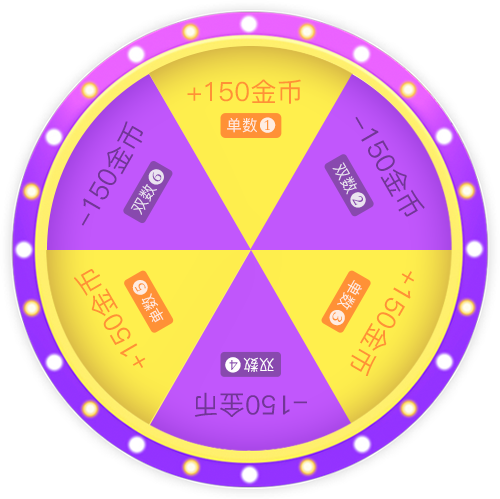
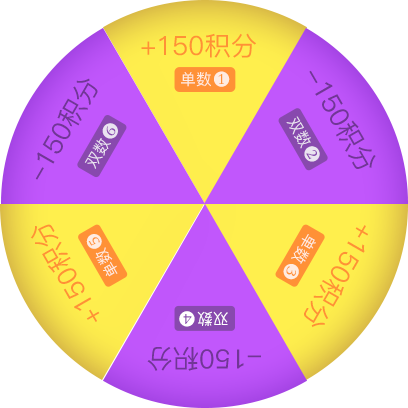
update 转盘活动页

diff --git a/public/client/css/intro.css b/public/client/css/intro.css
@@ -144,6 +144,18 @@
 
 .ring {
     position: absolute;
-    height: 5.8rem;
-    margin-top: -5.6rem;
+    height: 8rem;
+    width: 8rem !important;
+    margin-top: -6rem;
+    margin-left: -1.1rem;
+}
+
+.ring img {
+    width: 6.7rem !important;
+    height: 6.7rem;
+}
+
+.playBox {
+    padding-top: 0.25rem;
+    padding-bottom: 0.45rem;
 }

diff --git a/resources/views/staradmin/client/intro.blade.php b/resources/views/staradmin/client/intro.blade.php
@@ -46,7 +46,7 @@
         </div>
         <div class="panel">
             <div class="panel-title">转盘玩法说明</div>
-            进入转盘默认有1200金币(不可提现)，使用倍增式猜单数或者双数（游戏里有介绍）。<br /><span class="highlight">在转盘里赚到的金币可兑换红包(可提现)。</span><br />每次幸运转盘最多可赚150金币，能兑换15元红包。如果你有10次机会，就可以赚150元。            
+            进入转盘默认有1200积分(不可提现)，使用倍增式猜单数或者双数（游戏里有介绍）。<br /><span class="highlight">在转盘里赚到的积分可兑换红包(可提现)。</span><br />每次幸运转盘最多能兑换15元红包。如果你有10次机会，就可以赚150元。            
         </div>
         <div class="panel bottom-space">
             <div class="panel-title">超多红包拿不完</div>

diff --git a/resources/views/staradmin/layouts/footer.blade.php b/resources/views/staradmin/layouts/footer.blade.php
@@ -15,7 +15,7 @@
 
 
 			<dt class="dbox0">
-				@if(Request::is('vip') || Request::is('arcade') || Request::is('arcade_node'))
+				@if(Request::is('vip') || Request::is('arcade') || Request::is('arcade_node') || Request::is('arcade_old'))
 
 					@if(Request::is('vip'))
 						<a href="/vip">
